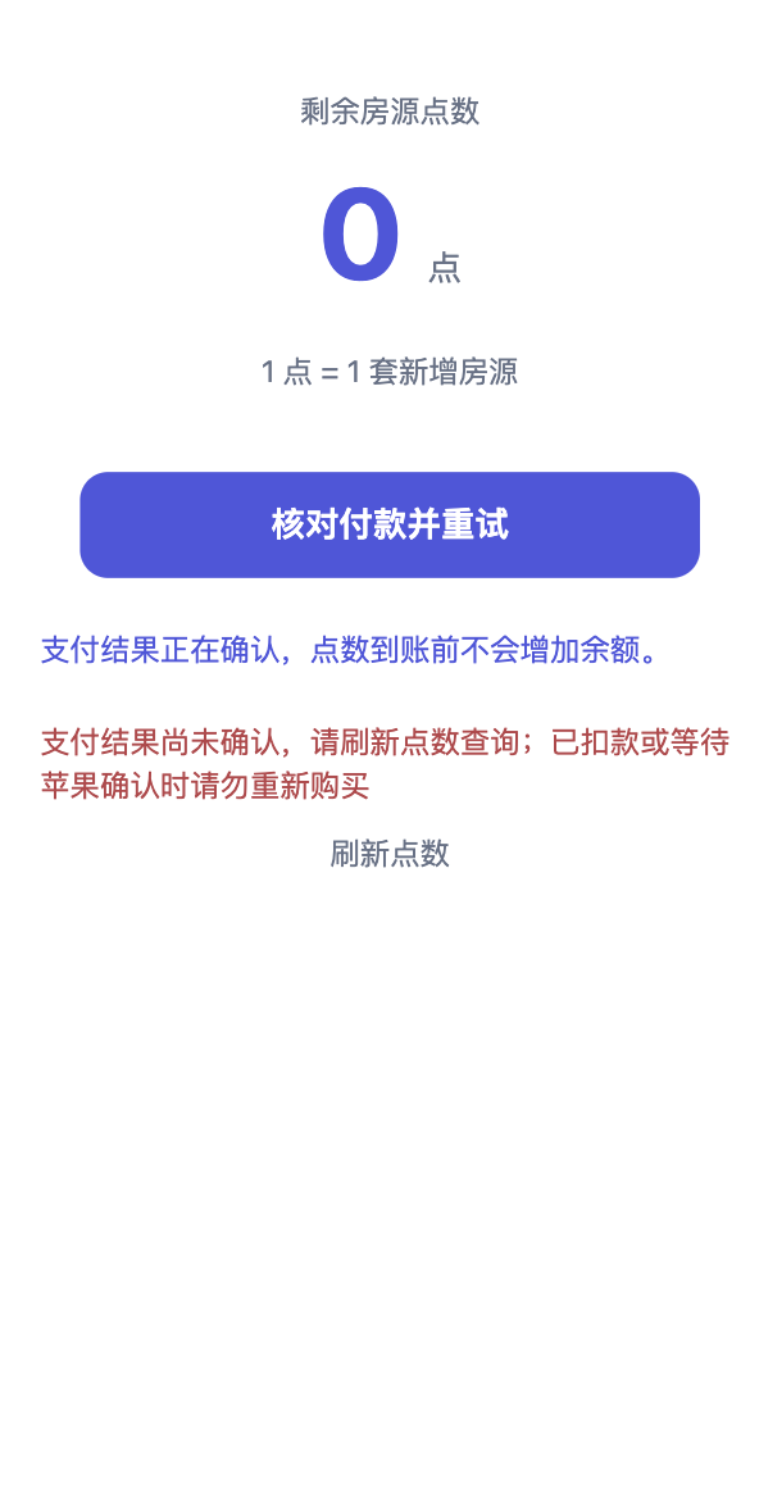
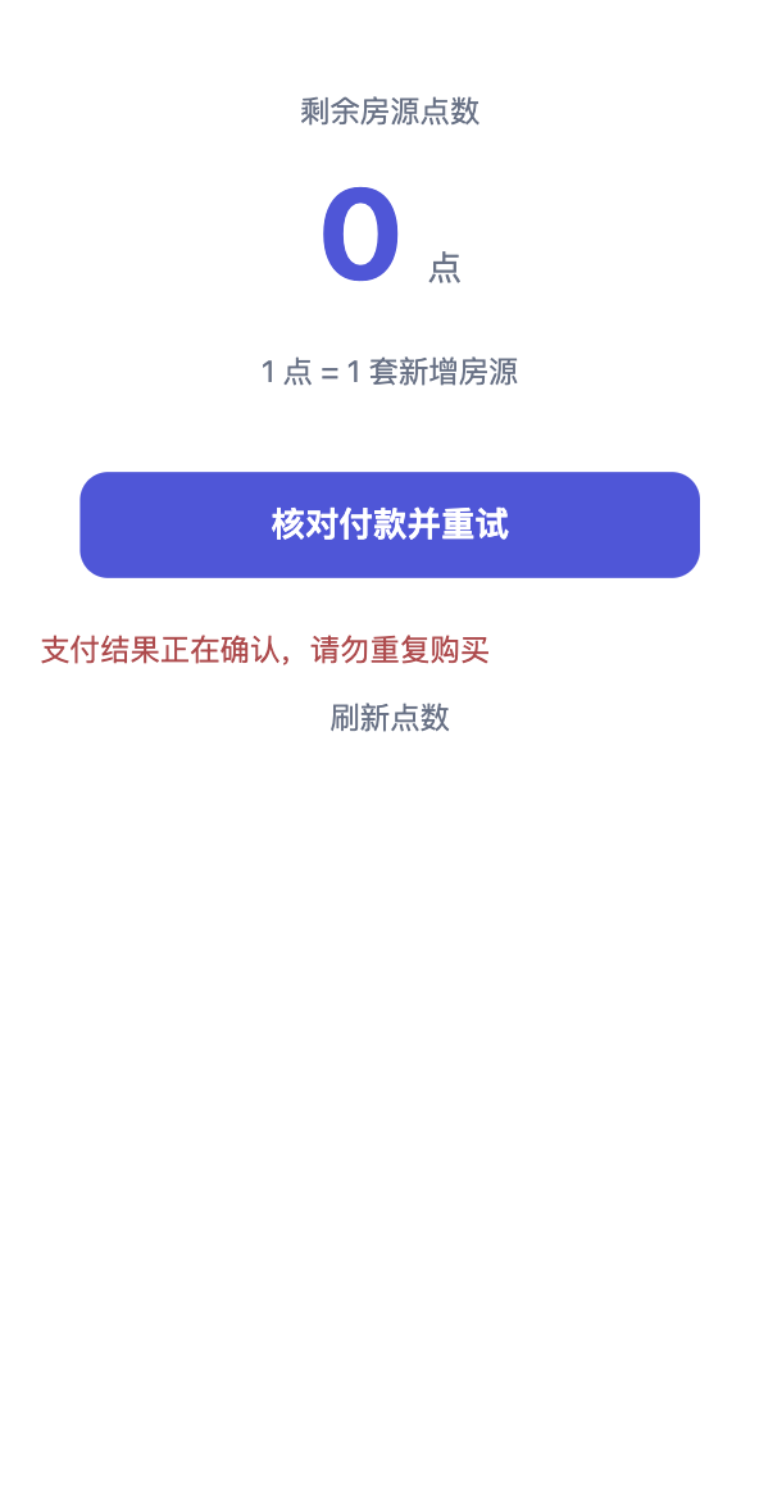
Simplify pending payment to one red notice

Changed region(s): [[0.0308, 0.4057, 0.8308, 0.593], [0.0615, 0.4057, 0.3692, 0.4369], [0.7077, 0.4681, 0.9538, 0.4993]]

diff --git a/docs/wechat/PAYMENT_RETRY_VALIDATION.md b/docs/wechat/PAYMENT_RETRY_VALIDATION.md
@@ -1,5 +1,13 @@
 # 支付重试与诊断验证（2026-11-03）
 
+## 用户确认的提示文案调整
+
+用户在 2026-11-03 明确要求把两段待确认说明合并成一条红色提示：“支付结果正在确认，请勿重复购买”。组件在 pending 状态只渲染这一条，避免同屏叠加蓝色说明和红色长提示；非 pending 的错误仍使用对应错误文案。只修改组件模板和样式，支付状态处理与后端未改动。
+
+本次增量验证：`property-credits-component.test.js` 和 `capacity-runtime.test.js` 共 **23 项通过**；wcc 22 文件、wcsc 24 文件通过，正常配置包体为 **1,919,539 字节**。其余付款/诊断代码与此前 117 项通过的候选完全相同，复用原结果，未重复运行全部相关用例。日志为 `copy-simplification-tests.log`、`copy-simplification-compile.log`。
+
+当前[待确认预览](evidence/payment-retry-20261103/pending-recovery.png)来自共享池 run `5cbb285b8fed470085bd5ea116537ff7`，仅以测试桩准备页面状态，没有实际扣款。本次文案已获用户明确确认；先前真实点击/原生弹窗/手机支付的验证限制仍保留。
+
 ## 复现与修复
 
 原生支付失败后，旧实现仍保存 pending requestId；服务端返回 unpaid 时一直保留本地 pending。刷新后重复购买被拦截，新版点数组件又直接禁用了 pending 按钮。HTTP 200 本身无法说明微信业务调用成功，旧日志也无法把原生错误和某笔订单对应起来。
@@ -48,7 +56,7 @@ node scripts/check.mjs
 
 原始工具失败记录保留在共享池 runs 的 `2657f60174e54a0db2b849fb2f4769d3` 和 `c1be99e77545405ea0da2bee2f8d5e7b`。第一轮预览 `5b9703b8e44b49efb7f538fc20540e24` 截图早于渲染完成，仅保留排查，不作为最终界面证据。
 
-最终稳定预览 run `b57066a12c1f40ba9254d6eef92a980e`（与最终生产代码相同；仅测试域名和隔离数据根不同）：[明确失败](evidence/payment-retry-20261103/failed-retry-enabled.png)、[结果待确认](evidence/payment-retry-20261103/pending-recovery.png)，已逐张检查。SDK 截图不包含原生确认弹窗，CUA 截图连接又超时，弹窗视觉检查仍未完成；参数和取消行为已由定向测试覆盖。
+首次修复的稳定预览 run `b57066a12c1f40ba9254d6eef92a980e` 已逐张检查；[明确失败](evidence/payment-retry-20261103/failed-retry-enabled.png)仍保留该轮截图，待确认截图已更新至上方文案调整记录。SDK 截图不包含原生确认弹窗，CUA 截图连接又超时，弹窗视觉检查仍未完成；参数和取消行为已由定向测试覆盖。
 
 ## 交付边界
 
